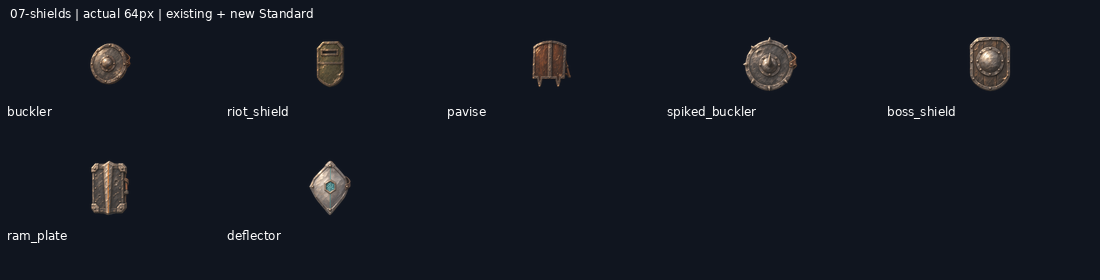
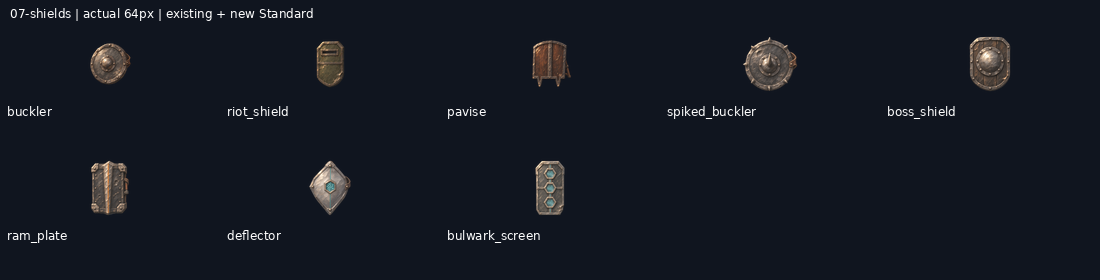
art: draw shield-bulwark_screen Standard inventory painting

Changed region(s): [[0.4636, 0.5714, 0.5255, 0.7714], [0.4018, 0.8286, 0.4945, 0.8571]]

diff --git a/art/_archive/gear/2026-11-19-melee-armour/HANDOFF.md b/art/_archive/gear/2026-11-19-melee-armour/HANDOFF.md
@@ -1,6 +1,6 @@
 # Files05 and07 — 19 November gear handoff
 
-Branch: `art/2026-11-19-melee-armour`, from develop `2020b5c2`. **23/39 Standard paintings delivered.** Next: `shield-bulwark_screen`. Exact remaining order is progress.json / queue.json.
+Branch: `art/2026-11-19-melee-armour`, from develop `2020b5c2`. **24/39 Standard paintings delivered.** Next: `shield-barrier_wall`. Exact remaining order is progress.json / queue.json.
 
 This worker claims file05 (19 melee) and file07 (6 shields +14 armour). Another GPT owns files01–04. Files06/08/09/10 are unclaimed by this worker. No work on the other GPT’s files, title screen, old icons or pet.
 
